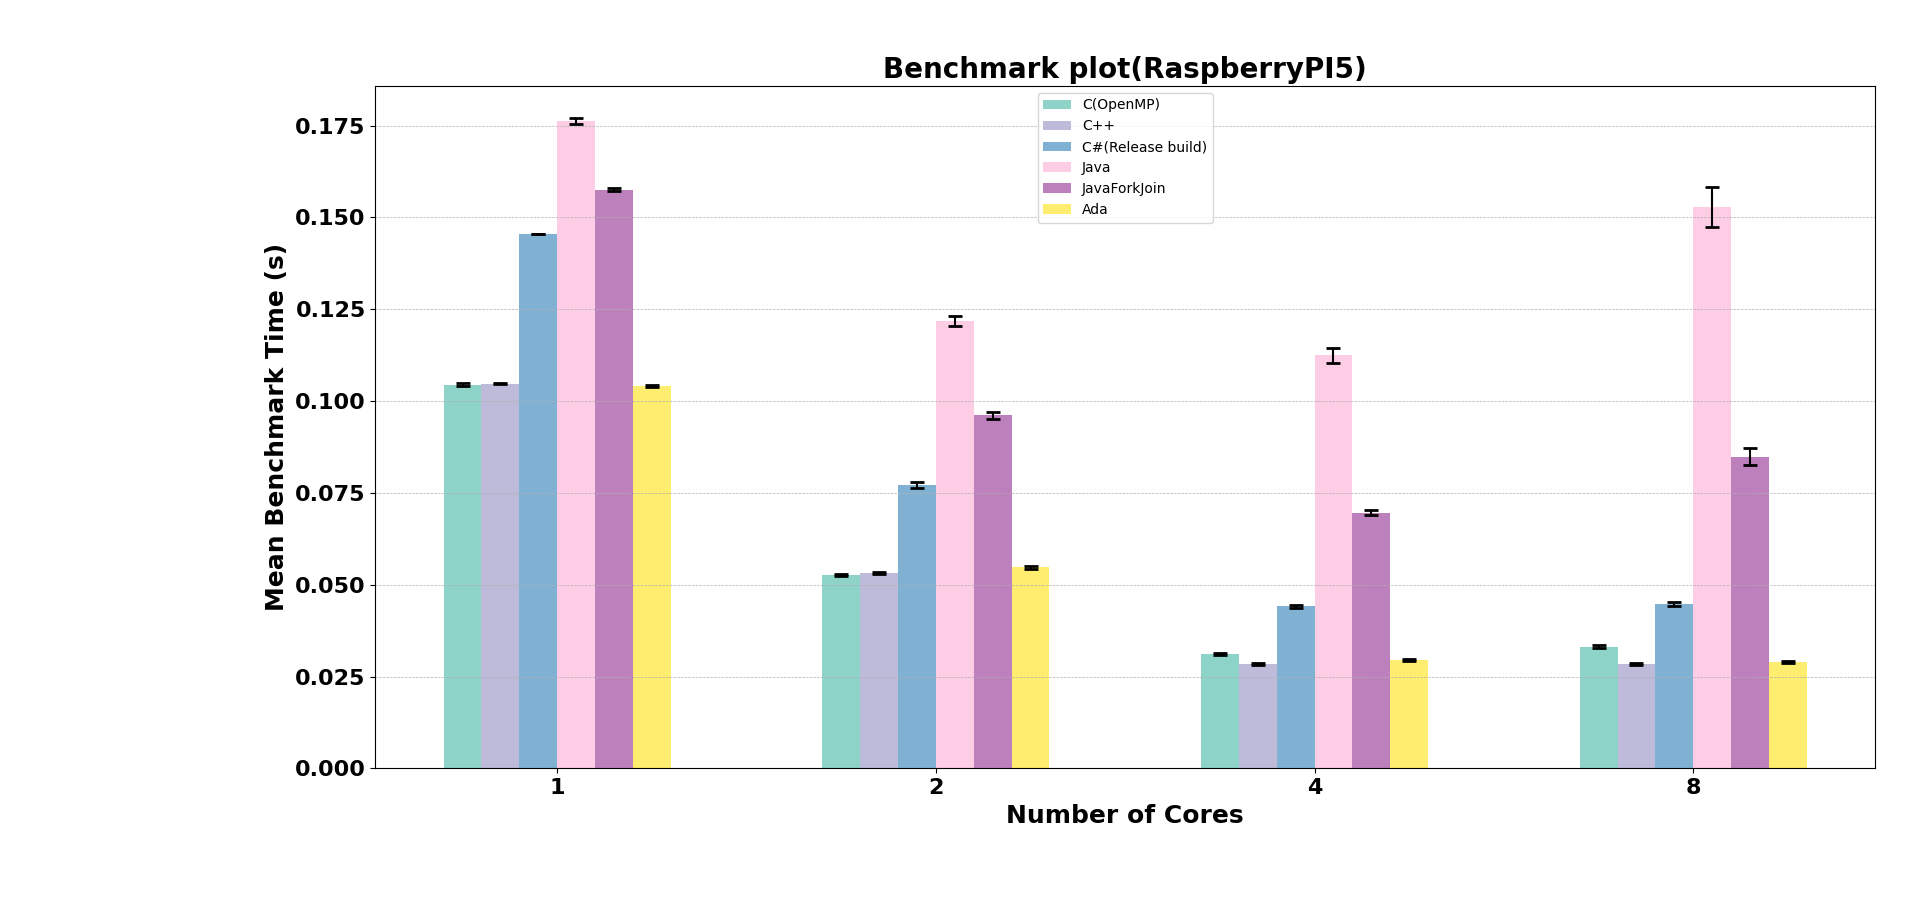
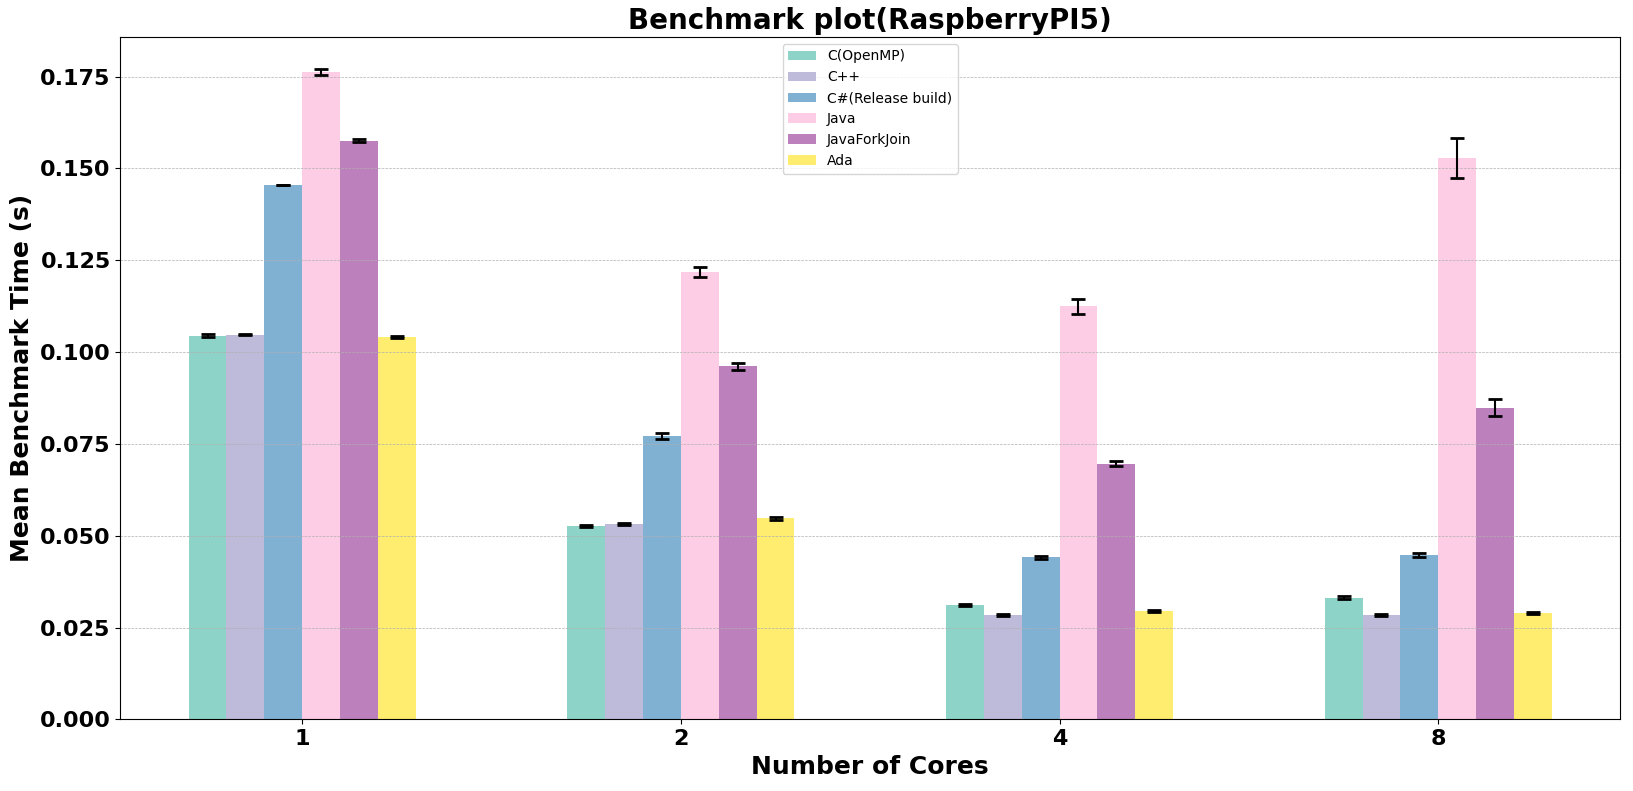
Added objective 1 deadlines missed data as table and fixed spacing issues for now

diff --git a/results_and_discussion.tex b/results_and_discussion.tex
@@ -4,7 +4,7 @@ Results from the proposed solution collected from desktop(\texttt{x86} processor
 
 \begin{figure}[htbp] % Positioning preference: here, top, bottom, page
 	\centering
-	\includegraphics[width=1\textwidth, height=20cm]{~/Documents/Part_D_Modules/Individual_Project/Individual_report/figures/mpbenchmark_desktop.png} % Adjust the path and width as needed
+	\includegraphics[width=1\textwidth, height=10cm]{~/Documents/Part_D_Modules/Individual_Project/Individual_report/figures/mpbenchmark_desktop.png} % Adjust the path and width as needed
 	\caption{Mean benchmark plot of \texttt{mpbenchmark} collected from \texttt{x86} processor in seconds. The error bars represent 95\% confidence interval. (Lower is better).}
 	\label{fig:mpbenchmark_desktop_plot} % Use this label to reference the figure
 \end{figure}
@@ -12,7 +12,7 @@ Results from the proposed solution collected from desktop(\texttt{x86} processor
 
 \begin{figure}[htbp] % Positioning preference: here, top, bottom, page
 	\centering
-	\includegraphics[width=1\textwidth, height=20cm]{~/Documents/Part_D_Modules/Individual_Project/Individual_report/figures/mpbenchmark_desktop_speedup.png} % Adjust the path and width as needed
+	\includegraphics[width=1\textwidth, height=10cm]{~/Documents/Part_D_Modules/Individual_Project/Individual_report/figures/mpbenchmark_desktop_speedup.png} % Adjust the path and width as needed
 	\caption{Speedup plot collected from \texttt{x86} processor. The vertical black line shows the maximum physical cores of the processor. (Higher is better).}
 	\label{fig:mpbenchmark_desktop_speedup_plot} % Use this label to reference the figure
 \end{figure}
@@ -82,25 +82,25 @@ The decimal precision of using single and double precision floating point \textt
 
 The proposed solution outperformed both the \texttt{C} and \texttt{Ada} solutions in terms of runtime and speedup. On the Raspberry Pi 5, a slight reduction in runtime (about 4\%) and a notable improvement in speedup were observed. The results on the Raspberry Pi 4 were less impressive, showing only a 1\% improvement in performance and a marginal increase in speedup. Nevertheless, the proposed \texttt{C++} solution outperformed the original solutions in terms of runtime and speedup on both Raspberry Pi devices, although the improvement was marginal on the Raspberry Pi 4.
 
-The \texttt{NEON} enhanced solutions using single precision floating-point produced over a 40\% reduction in time at the cost of lower speedup across threads and a reduced decimal precision to four decimal places. On the Raspberry Pi 5, the \texttt{NEON} solution using double precision failed to reduce runtime and produced the worst overall speedup across varying numbers of threads. On the Raspberry Pi 4, the \texttt{NEON} double precision solution did not reduce the runtime and produced a similar speedup to other solutions. However, the double precision solutions did offer far superior decimal precision, up to 12 decimal places. Given \texttt{NEON} instructions' reduced support for double precision floating points, developers must choose between single precision for significantly improved performance but lower decimal precision, and double precision, which did not improve performance on the tested embedded processors. These results are summarized in table~\ref{tab:c++_neon_pi}.
+The \texttt{NEON} enhanced solutions using single precision floating-point produced over a 40\% reduction in time at the cost of lower speedup across threads and a reduced decimal precision to four decimal places. On the Raspberry Pi 5, the \texttt{NEON} solution using double precision failed to reduce runtime and produced the worst overall speedup across varying numbers of threads. On the Raspberry Pi 4, the \texttt{NEON} double precision solution did not reduce the runtime and produced a similar speedup to other solutions. However, the double precision solutions did offer far superior decimal precision, up to 12 decimal places. Given \texttt{NEON} instructions' reduced support for double precision floating points, developers must choose between single precision for significantly improved performance but lower decimal precision, and double precision, which did not improve performance on the tested embedded processors. These results are summarized in table~\ref{tab:c++_neon_pi}. When comparing ``deadlines missed", on desktop and Raspberry Pi 5 there were no ``deadlines missed" from any of the compiled languages. On Raspberry Pi 4, the proposed \texttt{C++} solution missed a few deadlines reporting a noticeable improvement over \texttt{C} and \texttt{Ada} versions however the \texttt{NEON} single solution did not miss any deadlines showcasing a great improvement not just in run time but also in the ``deadline missed" category. Detailed results about ``deadlines missed" can be found in the [Appendix Table ~\ref{tab:mpbenchmark_rpi4}].
 
 Benchmarks allow us to compare the latest Raspberry Pi 5 (\texttt{Cortex A-76}) against the older Raspberry Pi 4 (\texttt{Cortex A-72}). The \texttt{Cortex A-76} performed 75\% faster in terms of runtime when comparing the proposed \texttt{C++} solution, roughly \texttt{4x} faster. The \texttt{Cortex A-76} processor offered a 42\% reduction in runtime when \texttt{NEON(float)} enhanced code was used compared to a 51\% reduction in runtime for the \texttt{Cortex A-72}. Both processors exhibited a lower speedup when \texttt{NEON} instructions were used, similar to what was observed with the \texttt{x86} processor. The superior performance of the \texttt{Cortex A-76} may be attributed to a faster clock speed of 2.4 GHz compared to the 1.5GHz of the older \texttt{Cortex A-72} \cite{rasp_pi5_pi4_comparision}.
 
-The proposed \texttt{C++} solution surpassed the previously developed \texttt{mpbenchmark}\cite{mpbenchmark_paper} on both \texttt{x86} and \texttt{ARM} processors. It offered better speedup across threads, and an alternate novel \texttt{SIMD} enhanced version (where the application decides whether to use \texttt{AVX2} or \texttt{NEON} depending on the processor type) can be utilized to analyse the CPUs' SIMD performance and scalability. This unprecedented improvement is part of an upcoming publication.
+The proposed \texttt{C++} solution surpassed the previously developed \texttt{mpbenchmark}\cite{mpbenchmark_paper} on both \texttt{x86} and \texttt{ARM} processors. It offered better speedup across threads, and an alternate novel \texttt{SIMD} enhanced version (where the application decides whether to use \texttt{AVX2} or \texttt{NEON} depending on the processor type) can be utilised to analyse the CPUs' SIMD performance and scalability. This unprecedented improvement is part of an upcoming publication.
 
 \section{Objective 2: \texttt{MobileNet}}
 After parallelising \texttt{MobileNet} the results collected from desktop(\texttt{x86} processor) were compared with SIMD optimisations and without them. The benchmark and speedup plot are shown in figures ~\ref{fig:mobilenet_desktop_plot} and ~\ref{fig:mobilenet_desktop_speedup}. 
 
 \begin{figure}[htbp] % Positioning preference: here, top, bottom, page
 	\centering
-	\includegraphics[width=1\textwidth, height=20cm]{~/Documents/Part_D_Modules/Individual_Project/Individual_report/figures/mobilenet_desktop.png} % Adjust the path and width as needed
+	\includegraphics[width=1\textwidth, height=10cm]{~/Documents/Part_D_Modules/Individual_Project/Individual_report/figures/mobilenet_desktop.png} % Adjust the path and width as needed
 	\caption{Mean benchmark plot of results collected from \texttt{x86} processor(in milliseconds). (Lower is better).}
 	\label{fig:mobilenet_desktop_plot} % Use this label to reference the figure
 \end{figure}
 
-\begin{figure}[H] % Positioning preference: here, top, bottom, page
+\begin{figure}[htbp] % Positioning preference: here, top, bottom, page
 	\centering
-	\includegraphics[width=1\textwidth, height=20cm]{~/Documents/Part_D_Modules/Individual_Project/Individual_report/figures/mobilenet_desktop_speedup.png} % Adjust the path and width as needed
+	\includegraphics[width=1\textwidth, height=10cm]{~/Documents/Part_D_Modules/Individual_Project/Individual_report/figures/mobilenet_desktop_speedup.png} % Adjust the path and width as needed
 	\caption{Speedup plot comparing the two solutions with results collected from \texttt{x86} processor. (Higher is better).}
 	\label{fig:mobilenet_desktop_speedup} % Use this label to reference the figure
 \end{figure}
@@ -120,14 +120,14 @@ The results for Raspberry Pi 5 are shown in figures ~\ref{fig:mobilenet_rpi5_plo
 
 \begin{figure}[htbp] % Positioning preference: here, top, bottom, page
 	\centering
-	\includegraphics[width=1\textwidth, height=20cm]{~/Documents/Part_D_Modules/Individual_Project/Individual_report/figures/mobilenet_rpi5.png} % Adjust the path and width as needed
+	\includegraphics[width=1\textwidth, height=10cm]{~/Documents/Part_D_Modules/Individual_Project/Individual_report/figures/mobilenet_rpi5.png} % Adjust the path and width as needed
 	\caption{Mean benchmark plot of results collected from \texttt{Cortex A-76} processor(in milliseconds). (Lower is better).}
 	\label{fig:mobilenet_rpi5_plot} % Use this label to reference the figure
 \end{figure}
 
 \begin{figure}[htbp] % Positioning preference: here, top, bottom, page
 	\centering
-	\includegraphics[width=1\textwidth, height=20cm]{~/Documents/Part_D_Modules/Individual_Project/Individual_report/figures/mobilenet_rpi5_speedup.png} % Adjust the path and width as needed
+	\includegraphics[width=1\textwidth, height=10cm]{~/Documents/Part_D_Modules/Individual_Project/Individual_report/figures/mobilenet_rpi5_speedup.png} % Adjust the path and width as needed
 	\caption{Speedup plot comparing different solutions with results collected from \texttt{Cortex A-76} processor. (Higher is better).}
 	\label{fig:mobilenet_rpi5_speedup} % Use this label to reference the figure
 \end{figure}

diff --git a/Individual_report.tex b/Individual_report.tex
@@ -181,7 +181,7 @@ Parallelism can be achieved via multi-threading and multi-processing techniques.
 
 Multi-processing involves an application initiating multiple processes to perform parallel operations, whereas multi-threading pertains to an application that generates multiple threads usually within a single process. This project concentrates on three main applications: the initial two are optimised utilizing multi-threading and their outcomes are assessed on both desktop and embedded processors. The embedded processors examined in this study include the Raspberry Pi 5, 4, and 3, with the Raspberry Pi 5 representing the forefront of technology as of 2024. The final application is a graphical user interface (GUI) application, where multi-processing is employed to attain parallelism. This application was developed by Alex Henneman, a Ph.D. student, under the supervision of Dr. Luciano Ost\cite{debate_fi_publication}. The aim here is to refine this application to minimize its execution time and enhance its scalability. 
 
-The inaugural objective of the main project focuses on the enhancement of a multi-core benchmark application named \texttt{mpbenchmark}\cite{mpbenchmark_paper}. The essence of \texttt{mpbenchmark} lies in its capability to simulate real-time calculations of jet engine thermodynamics, serving as a multi-threaded tool to evaluate the multi-core performance of CPUs. This application represents an advanced iteration of its predecessor, \texttt{JetBench}\cite{JetBench_paper}. Initially crafted in \texttt{C} utilizing the \texttt{OpenMP} library, \texttt{JetBench} exhibited certain limitations inherent to its design and programming language. The evolution from \texttt{JetBench} to \texttt{mpbenchmark} marked a significant enhancement, rectifying the previous version's shortcomings. Moreover, \texttt{mpbenchmark} expanded its foundation by incorporating additional programming languages, including \texttt{Ada}, \texttt{C\#}, and \texttt{Java}. Despite this diversification, the implementations in \texttt{C} and \texttt{Ada} were identified as the most performant. However, it's noteworthy that the \texttt{C} and \texttt{Ada} versions of \texttt{mpbenchmark} still encounter language-specific constraints. Specifically, \texttt{C}'s lack of object-oriented capabilities, the requirement for manual memory management, and the absence of libraries for frequently utilized data structures and algorithms pose significant drawbacks\cite{c_language_drawbacks}. \texttt{Ada}, while offering some advantages, remains a specialised language predominantly employed within the defence and aerospace sectors\cite{ada_langauge_uses}. To transcend these limitations, this project aspires to develop a modernized version of \texttt{mpbenchmark} utilizing \texttt{C++}. This choice is motivated by \texttt{C++}'s ability to mitigate many of the challenges inherent to \texttt{C}, while still delivering comparable performance. The advent of \texttt{modern C++}, propelled by substantial updates to the core language post-2011, offers promising enhancements that are expected to refine \texttt{mpbenchmark}'s efficiency and functionality.
+The first objective of this project is to improve the \texttt{mpbenchmark} multi-core benchmark tool, which simulates jet engine thermodynamics to evaluate CPU performance \cite{mpbenchmark_paper}. \texttt{mpbenchmark} generates two key outputs: runtime and the number of deadlines missed, the latter indicating performance quality based on thread completion times. This tool builds upon its predecessor, \texttt{JetBench}, which was originally developed in \texttt{C} using \texttt{OpenMP} \cite{JetBench_paper}. The transition to \texttt{mpbenchmark} addresses \texttt{JetBench}'s limitations and extends support to other languages like \texttt{Ada}, \texttt{C\#}, and \texttt{Java}, with \texttt{C} and \texttt{Ada} showing the best performance. However, these versions face challenges such as \texttt{C}'s lack of object-orientation and manual memory management issues \cite{c_language_drawbacks}, and \texttt{Ada}'s limited use outside defense and aerospace \cite{ada_langauge_uses}. To overcome these, the project aims to develop \texttt{mpbenchmark} using \texttt{C++}, leveraging modern enhancements to improve functionality and efficiency since 2011.
 
 The secondary objective of this project centres on enhancing the performance of \texttt{MobileNet}, a specialised machine learning algorithm within the realm of convolutional neural networks (\texttt{CNNs})\cite{mobilenet_paper}. \texttt{MobileNet} excels in the field of image classification, a process in which the algorithm is provided with an image and tasked with determining the image's corresponding class. While the intricate mathematical foundations and specific operational details of \texttt{MobileNet} are beyond the scope of this discussion, the primary focus is set on augmenting its efficiency. Originally designed as a sequential algorithm, \texttt{MobileNet} primarily operates on a single CPU core, which poses limitations on its execution speed and scalability. In pursuit of addressing these constraints, this project endeavours to transform the existing \texttt{C++} implementation of \texttt{MobileNet}\cite{mobilenet_repo} into a multi-threaded architecture. By doing so, the aim is to significantly decrease its runtime and enhance its scalability, thereby optimizing the algorithm's performance for more robust and efficient image classification tasks. This effort to transition \texttt{MobileNet} from a sequential to a multi-threaded model represents a strategic move to leverage the capabilities of modern multi-core processors, ensuring a more responsive and efficient computational process.
 

diff --git a/methodology.tex b/methodology.tex
@@ -101,7 +101,7 @@ double Worker::approximatePi(){
 
 As discussed, to utilize SIMD intrinsics on Raspberry Pi devices, \texttt{NEON} instructions must be employed. \texttt{NEON} instructions come with limitations, notably in their support for double precision floating points, which is restricted, and their vector width, which is only \texttt{128-bit}, compared to the \texttt{256-bit} vectors seen in \texttt{AVX2}\cite{neon_reference}. To accommodate \texttt{NEON}, two solutions were developed: one using single precision floating points (\texttt{float}) and the other using double precision floating points (\texttt{double}). The \texttt{NEON} code with \texttt{float} can perform four computations simultaneously, while the code with \texttt{double} can manage only two computations simultaneously, due to the \texttt{128-bit} vector's capacity to store four \texttt{float} values or two \texttt{double} values. Typically, \texttt{float} variables offer less decimal precision than \texttt{double} variables. These two SIMD-enhanced solutions, along with their decimal accuracy levels, will be compared in the results and discussion section. The \texttt{NEON} implementation follows the same algorithm as the code snippet shown in Listing~\ref{lst:pi_approximation_2}. The \texttt{CMake} also required some changes to allow the \texttt{AVX2} instructions to be used, this along with the \texttt{NEON} codes for Raspberry Pi can be found in the [Appendix Listings ~\ref{lst:cmake_simd}, ~\ref{lst:neon_float} and ~\ref{lst:neon_double}].
 
-To collect benchmark data, the runtime was recorded and saved to a specified \texttt{.txt} file. The application underwent 103 runs, with the first three designated as warm-up sessions; the subsequent 100 runs were averaged and utilized for plotting bar charts and speedup plots. For the languages \texttt{Java} and \texttt{C\#}, data were collected over 103 runs. In contrast, for the compiled languages \texttt{C}, \texttt{Ada}, and \texttt{C++}, the application was executed 203 times. The variance in the number of threads was controlled using the \texttt{taskset} command in Linux. Specifically for the \texttt{C++} application, a second command line argument was employed to specify the number of threads, distinguishing it as the sole instance within the \texttt{C++} versions not originally featuring a second command line argument. This approach aligns with the methodology described by the authors of \texttt{mpbenchmark}\cite{mpbenchmark_paper}. An example bash script demonstrating how the application was executed multiple times is shown in the following listing (listing ~\ref{lst:benchmark_collection}):
+To collect benchmark data, the runtime was recorded and saved to a specified \texttt{.txt} file, the number of deadlines missed were also saved but in a separate \texttt{.txt} file. The application underwent 103 runs, with the first three designated as warm-up sessions; the subsequent 100 runs were averaged and utilized for plotting bar charts and speedup plots. For the languages \texttt{Java} and \texttt{C\#}, data were collected over 103 runs. In contrast, for the compiled languages \texttt{C}, \texttt{Ada}, and \texttt{C++}, the application was executed 203 times. The variance in the number of threads was controlled using the \texttt{taskset} command in Linux. Specifically for the \texttt{C++} application, a second command line argument was employed to specify the number of threads, distinguishing it as the sole instance within the \texttt{C++} versions not originally featuring a second command line argument. This approach aligns with the methodology described by the authors of \texttt{mpbenchmark}\cite{mpbenchmark_paper}. An example bash script demonstrating how the application was executed multiple times is shown in the following listing (listing ~\ref{lst:benchmark_collection}):
 
 \begin{lstlisting}[
 	caption={Bash script to run application multiple times along with \texttt{taskset} command. Command line arguments: \texttt{mpbenchmark <engine\_type> <threads>} .},

diff --git a/appendix.tex b/appendix.tex
@@ -155,6 +155,40 @@ Results collected from Raspberry Pi 4 can be seen in figures ~\ref{fig:mpbenchma
 	\label{fig:mpbenchmark_rpi4_speedup_plot} % Use this label to reference the figure
 \end{figure}
 
+% Making the table fit in the page by scaling it down
+\begin{table}[h!]
+	\centering
+	\resizebox{\textwidth}{!}{% Resizes the table to fit within the text width
+		\begin{tabular}{|c|c|c|c|c|c|c|c|c|}
+			\hline
+			\textbf{Cores} & \textbf{C} & \textbf{C++} & \textbf{C++(NEON single)} & \textbf{C++(NEON double)} & \textbf{Java} & \textbf{JavaForkJoin} & \textbf{C\#} & \textbf{Ada} \\ \hline
+			1              & 0           &0              & 0                          & 0                          &0              &0                      &0              &0             \\ \hline
+			2              & 0          & 0             &  0                         &  0                         & 0.18             &0                      &0              &0             \\ \hline
+			4              & 0           & 0             & 0                          & 0                          &1.33              &0                      & 0             &0             \\ \hline
+			8              & 0           & 0            &  0                         &   0                        & 8.21             & 1.03                     &0              &0             \\ \hline
+		\end{tabular}
+	}
+	\caption{Mean deadlines missed, results collected from the Raspberry Pi 5.}
+	\label{tab:mpbenchmark_rpi5} % Label for referencing
+\end{table}
+
+% Making the table fit in the page by scaling it down
+\begin{table}[h!]
+	\centering
+	\resizebox{\textwidth}{!}{% Resizes the table to fit within the text width
+		\begin{tabular}{|c|c|c|c|c|c|c|c|c|}
+			\hline
+			\textbf{Cores} & \textbf{C} & \textbf{C++} & \textbf{C++(NEON single)} & \textbf{C++(NEON double)} & \textbf{Java} & \textbf{JavaForkJoin} & \textbf{C\#} & \textbf{Ada} \\ \hline
+			1              & 0           &0              &  0                          & 0                         &0.90              &0                      &0             &0             \\ \hline
+			2              & 0          & 0              &  0                         &  0                         &1.00              &0.27                 &0             &0             \\ \hline
+			4              & 0.005   & 0              &  0                         & 0.005                   &1.34              &0.52                 &0             &0.01             \\ \hline
+			8              & 0.03      & 0.0295    &  0                         &  0.04                    &6.35             & 6.93                 &2.33        &0.04             \\ \hline
+		\end{tabular}
+	}
+	\caption{Mean deadlines missed, results collected from the Raspberry Pi 4.}
+	\label{tab:mpbenchmark_rpi4} % Label for referencing
+\end{table}
+
 \section{Objective 2: \texttt{MobileNet}}
 
 The \texttt{MobileNet} repository\cite{mobilenet_repo} contained some outdated portions of the code which were updated, certain parts of the code contained Chinese language which were translated into English and \texttt{CMake} build software was used to setup the \texttt{MobileNet} application. 
